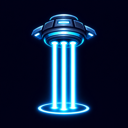
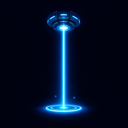
궁극기 연출과 레이저 범위 조정

Changed region(s): [[0.2188, 0.0625, 0.7812, 0.9062]]

diff --git a/src/main.ts b/src/main.ts
@@ -1286,50 +1286,50 @@ function draw(): void {
     const progress = Math.min(1, ultimateEffect.elapsed / ULTIMATE_EFFECT_DURATION);
     const alpha = 1 - progress;
     if (ultimateEffect.type === "antimatter") {
-      const radius = 24 + 145 * (1 - (1 - progress) ** 3);
+      const radius = 24 + 108 * (1 - (1 - progress) ** 3);
       effectGlow.circle(ultimateEffect.x, ultimateEffect.y, radius)
-        .stroke({ width: 34, color: 0xbd62ff, alpha: alpha * 0.9 });
-      scene.rect(0, 0, BOARD_WIDTH, BOARD_HEIGHT).fill({ color: 0x6d22aa, alpha: alpha * 0.12 });
-      scene.circle(ultimateEffect.x, ultimateEffect.y, radius).fill({ color: 0x7020a8, alpha: alpha * 0.28 });
-      scene.circle(ultimateEffect.x, ultimateEffect.y, radius).stroke({ width: 7, color: 0xf4dcff, alpha });
-      scene.circle(ultimateEffect.x, ultimateEffect.y, radius * 0.55).stroke({ width: 3, color: 0xffffff, alpha: alpha * 0.8 });
+        .stroke({ width: 22, color: 0xbd62ff, alpha: alpha * 0.58 });
+      scene.rect(0, 0, BOARD_WIDTH, BOARD_HEIGHT).fill({ color: 0x6d22aa, alpha: alpha * 0.06 });
+      scene.circle(ultimateEffect.x, ultimateEffect.y, radius).fill({ color: 0x7020a8, alpha: alpha * 0.16 });
+      scene.circle(ultimateEffect.x, ultimateEffect.y, radius).stroke({ width: 5, color: 0xf4dcff, alpha });
+      scene.circle(ultimateEffect.x, ultimateEffect.y, radius * 0.55).stroke({ width: 2, color: 0xffffff, alpha: alpha * 0.65 });
     } else if (ultimateEffect.type === "orbitalLaser") {
-      const width = CELL_WIDTH * 3 * Math.min(1, progress * 4);
+      const width = CELL_WIDTH * Math.min(1, progress * 4);
       effectGlow.rect(ultimateEffect.x - width / 2, 0, width, BOARD_HEIGHT)
-        .fill({ color: 0x38dfff, alpha: alpha * 0.72 });
+        .fill({ color: 0x38dfff, alpha: alpha * 0.48 });
       scene.rect(ultimateEffect.x - width / 2, 0, width, BOARD_HEIGHT)
-        .fill({ color: 0x12bfe8, alpha: alpha * 0.36 });
-      scene.rect(ultimateEffect.x - Math.max(5, width * 0.14), 0, Math.max(10, width * 0.28), BOARD_HEIGHT)
-        .fill({ color: 0xffffff, alpha: alpha * 0.9 });
+        .fill({ color: 0x12bfe8, alpha: alpha * 0.24 });
+      scene.rect(ultimateEffect.x - Math.max(3, width * 0.16), 0, Math.max(6, width * 0.32), BOARD_HEIGHT)
+        .fill({ color: 0xffffff, alpha: alpha * 0.72 });
     } else if (ultimateEffect.type === "chainLightning") {
       const visibleTargets = Math.max(1, Math.ceil(ultimateEffect.targets.length * Math.min(1, progress * 2.4)));
       let previous = { x: ultimateEffect.x, y: ultimateEffect.y };
       ultimateEffect.targets.slice(0, visibleTargets).forEach((target) => {
         effectGlow.moveTo(previous.x, previous.y).lineTo(target.x, target.y)
-          .stroke({ width: 16, color: 0xc76cff, alpha: alpha * 0.75 });
+          .stroke({ width: 10, color: 0xc76cff, alpha: alpha * 0.52 });
         scene.moveTo(previous.x, previous.y).lineTo(target.x, target.y)
           .stroke({ width: 4, color: 0xf4d8ff, alpha });
-        scene.circle(target.x, target.y, 7 + progress * 10)
+        scene.circle(target.x, target.y, 4 + progress * 7)
           .stroke({ width: 3, color: 0xffffff, alpha });
         previous = target;
       });
     } else if (ultimateEffect.type === "meteorImpact") {
-      const radius = 18 + 154 * (1 - (1 - progress) ** 3);
-      const tail = { x: ultimateEffect.x - 150 - progress * 30, y: ultimateEffect.y - 180 - progress * 22 };
+      const radius = 18 + 105 * (1 - (1 - progress) ** 3);
+      const tail = { x: ultimateEffect.x - 110 - progress * 20, y: ultimateEffect.y - 140 - progress * 18 };
       effectGlow.moveTo(tail.x, tail.y).lineTo(ultimateEffect.x, ultimateEffect.y)
-        .stroke({ width: 24, color: 0xff7133, alpha: alpha * 0.72 });
+        .stroke({ width: 14, color: 0xff7133, alpha: alpha * 0.5 });
       scene.moveTo(tail.x, tail.y).lineTo(ultimateEffect.x, ultimateEffect.y)
-        .stroke({ width: 10, color: 0xffbd55, alpha });
-      scene.circle(tail.x, tail.y, 13 + progress * 7).fill({ color: 0xffe9b0, alpha });
+        .stroke({ width: 6, color: 0xffbd55, alpha });
+      scene.circle(tail.x, tail.y, 9 + progress * 5).fill({ color: 0xffe9b0, alpha });
       effectGlow.circle(ultimateEffect.x, ultimateEffect.y, radius)
-        .stroke({ width: 30, color: 0xff7133, alpha: alpha * 0.8 });
-      scene.circle(ultimateEffect.x, ultimateEffect.y, radius).fill({ color: 0xf06a28, alpha: alpha * 0.25 });
-      scene.circle(ultimateEffect.x, ultimateEffect.y, radius).stroke({ width: 6, color: 0xffd978, alpha });
+        .stroke({ width: 18, color: 0xff7133, alpha: alpha * 0.52 });
+      scene.circle(ultimateEffect.x, ultimateEffect.y, radius).fill({ color: 0xf06a28, alpha: alpha * 0.16 });
+      scene.circle(ultimateEffect.x, ultimateEffect.y, radius).stroke({ width: 4, color: 0xffd978, alpha });
     } else if (ultimateEffect.type === "blackHoleCollapse") {
       const pull = Math.min(1, progress * 1.4);
-      const radius = 26 + 112 * progress;
+      const radius = 26 + 78 * progress;
       effectGlow.ellipse(ultimateEffect.x, ultimateEffect.y, 28 + progress * 8, 10 + progress * 3)
-        .stroke({ width: 18, color: 0xe55216, alpha: alpha * 0.7 });
+        .stroke({ width: 12, color: 0xe55216, alpha: alpha * 0.5 });
       scene.circle(ultimateEffect.x, ultimateEffect.y, 18 + progress * 7).fill({ color: 0x010101, alpha: alpha * 0.9 });
       scene.ellipse(ultimateEffect.x, ultimateEffect.y, 28 + progress * 8, 10 + progress * 3)
         .stroke({ width: 3, color: 0xff6a19, alpha });
@@ -1340,40 +1340,40 @@ function draw(): void {
         const x = target.x + (centerX - target.x) * pull + wobble;
         const y = target.y + (centerY - target.y) * pull - wobble;
         scene.moveTo(target.x, target.y).lineTo(x, y).stroke({ width: 2, color: 0xf99a48, alpha: alpha * 0.35 });
-        scene.circle(x, y, 4 + (1 - pull) * 4).fill({ color: 0xffa247, alpha: alpha * 0.75 });
+        scene.circle(x, y, 3 + (1 - pull) * 3).fill({ color: 0xffa247, alpha: alpha * 0.55 });
       });
       scene.circle(ultimateEffect.x, ultimateEffect.y, radius).stroke({ width: 5, color: 0xffb15b, alpha: alpha * 0.65 });
     } else if (ultimateEffect.type === "crossfire") {
-      const reach = 40 + 220 * Math.min(1, progress * 1.8);
-      const width = 8 + progress * 14;
+      const reach = 30 + 170 * Math.min(1, progress * 1.8);
+      const width = 5 + progress * 8;
       for (let offset = -1; offset <= 1; offset += 1) {
         const y = ultimateEffect.y + offset * CELL_HEIGHT;
         const x = ultimateEffect.x + offset * (CELL_WIDTH + GRID_GAP);
         effectGlow.moveTo(ultimateEffect.x - reach, y).lineTo(ultimateEffect.x + reach, y)
-          .stroke({ width: width * 2.4, color: 0x26dfff, alpha: alpha * 0.6 });
+          .stroke({ width: width * 1.6, color: 0x26dfff, alpha: alpha * 0.45 });
         effectGlow.moveTo(x, Math.max(0, ultimateEffect.y - reach)).lineTo(x, Math.min(BOARD_HEIGHT, ultimateEffect.y + reach))
-          .stroke({ width: width * 2.4, color: 0x26dfff, alpha: alpha * 0.6 });
+          .stroke({ width: width * 1.6, color: 0x26dfff, alpha: alpha * 0.45 });
         scene.moveTo(ultimateEffect.x - reach, y).lineTo(ultimateEffect.x + reach, y)
           .stroke({ width, color: 0x9af7ff, alpha });
         scene.moveTo(x, Math.max(0, ultimateEffect.y - reach)).lineTo(x, Math.min(BOARD_HEIGHT, ultimateEffect.y + reach))
           .stroke({ width, color: 0xffffff, alpha });
       }
-      scene.circle(ultimateEffect.x, ultimateEffect.y, 18 + progress * 22).fill({ color: 0x48dfff, alpha: alpha * 0.45 });
+      scene.circle(ultimateEffect.x, ultimateEffect.y, 14 + progress * 18).fill({ color: 0x48dfff, alpha: alpha * 0.28 });
     } else if (ultimateEffect.type === "fusionChain") {
       const visibleTargets = Math.max(1, Math.ceil(ultimateEffect.targets.length * Math.min(1, progress * 1.7)));
       let previous = { x: ultimateEffect.x, y: ultimateEffect.y };
       ultimateEffect.targets.slice(0, visibleTargets).forEach((target, index) => {
         effectGlow.moveTo(previous.x, previous.y).lineTo(target.x, target.y)
-          .stroke({ width: 18, color: 0xff7c35, alpha: alpha * 0.68 });
+          .stroke({ width: 10, color: 0xff7c35, alpha: alpha * 0.48 });
         scene.moveTo(previous.x, previous.y).lineTo(target.x, target.y)
           .stroke({ width: 4, color: index % 2 === 0 ? 0xfff3a6 : 0xff8e49, alpha });
-        scene.circle(target.x, target.y, 8 + progress * 11)
-          .fill({ color: 0xffbd55, alpha: alpha * 0.35 })
-          .stroke({ width: 3, color: 0xffffdc, alpha });
+        scene.circle(target.x, target.y, 5 + progress * 7)
+          .fill({ color: 0xffbd55, alpha: alpha * 0.24 })
+          .stroke({ width: 2, color: 0xffffdc, alpha });
         previous = target;
       });
-      scene.circle(ultimateEffect.x, ultimateEffect.y, 22 + progress * 86)
-        .stroke({ width: 7, color: 0xff9d42, alpha: alpha * 0.8 });
+      scene.circle(ultimateEffect.x, ultimateEffect.y, 22 + progress * 55)
+        .stroke({ width: 5, color: 0xff9d42, alpha: alpha * 0.55 });
     } else {
       const count = ultimateEffect.targets.length;
       const visibleTargets = Math.max(1, Math.ceil(count * Math.min(1, progress * 2.2)));
@@ -1381,13 +1381,13 @@ function draw(): void {
       const centerY = ultimateEffect.y;
       ultimateEffect.targets.slice(0, visibleTargets).forEach((target, index) => {
         const angle = (index / Math.max(1, count)) * Math.PI * 2 + progress * 1.5;
-        const origin = { x: centerX + Math.cos(angle) * 270, y: centerY + Math.sin(angle) * 270 };
+        const origin = { x: centerX + Math.cos(angle) * 235, y: centerY + Math.sin(angle) * 235 };
         const dx = target.x - origin.x;
         const dy = target.y - origin.y;
         const length = Math.hypot(dx, dy) || 1;
         const tip = { x: target.x - (dx / length) * 12, y: target.y - (dy / length) * 12 };
         effectGlow.moveTo(origin.x, origin.y).lineTo(target.x, target.y)
-          .stroke({ width: 12, color: 0xff456f, alpha: alpha * 0.65 });
+          .stroke({ width: 8, color: 0xff456f, alpha: alpha * 0.45 });
         scene.moveTo(origin.x, origin.y).lineTo(tip.x, tip.y)
           .stroke({ width: 3, color: 0xffc5d5, alpha });
         scene.moveTo(tip.x, tip.y).lineTo(target.x, target.y).lineTo(tip.x - (dx / length) * 8, tip.y - (dy / length) * 8)

diff --git a/index.html b/index.html
@@ -94,7 +94,7 @@
             <h3>보관형 궁극기</h3>
             <ul class="item-help-list">
               <li><img class="legend-ultimate-image" data-ultimate-image="antimatter" alt="" /><span><strong>반물질 폭탄</strong>지정 위치 주변을 대규모로 소멸시킵니다.</span></li>
-              <li><img class="legend-ultimate-image" data-ultimate-image="orbitalLaser" alt="" /><span><strong>궤도 레이저</strong>지정한 세로 영역을 관통합니다.</span></li>
+              <li><img class="legend-ultimate-image" data-ultimate-image="orbitalLaser" alt="" /><span><strong>궤도 레이저</strong>지정한 세로 한 줄을 관통합니다.</span></li>
               <li><img class="legend-ultimate-image" data-ultimate-image="chainLightning" alt="" /><span><strong>연쇄 번개</strong>가까운 블록으로 파괴를 이어갑니다.</span></li>
               <li><img class="legend-ultimate-image" data-ultimate-image="meteorImpact" alt="" /><span><strong>운석 충돌</strong>중심부를 소멸시키고 외곽에 피해를 줍니다.</span></li>
               <li><img class="legend-ultimate-image" data-ultimate-image="blackHoleCollapse" alt="" /><span><strong>블랙홀 붕괴</strong>주변 블록을 빨아들인 뒤 폭발시킵니다.</span></li>

diff --git a/src/game.ts b/src/game.ts
@@ -543,7 +543,7 @@ export function useUltimateItem(
   const targets = type === "antimatter"
     ? destructible.filter((brick) => Math.max(Math.abs(brick.row - target.row), Math.abs(brick.column - target.column)) <= 2)
     : type === "orbitalLaser"
-      ? destructible.filter((brick) => Math.abs(brick.column - target.column) <= 1)
+      ? destructible.filter((brick) => brick.column === target.column)
       : type === "chainLightning"
         ? [...destructible].sort((a, b) => distance(a) - distance(b)).slice(0, 12)
         : type === "meteorImpact"

diff --git a/src/style.css b/src/style.css
@@ -1536,6 +1536,7 @@ button {
   outline: 1px solid rgba(255, 255, 255, 0.1);
   outline-offset: -1px;
   box-shadow: 0 4px 12px rgba(0, 0, 0, 0.3);
+  filter: saturate(0.82) brightness(0.84);
 }
 
 .ultimate-slot-image[hidden],
@@ -1622,6 +1623,7 @@ button {
   outline: 1px solid rgba(255, 255, 255, 0.1);
   outline-offset: -1px;
   box-shadow: 0 4px 12px rgba(0, 0, 0, 0.3);
+  filter: saturate(0.82) brightness(0.84);
 }
 
 #status-dot {

diff --git a/tests/game.test.ts b/tests/game.test.ts
@@ -610,7 +610,7 @@ describe("핵심 게임 규칙", () => {
   it("궁극기 8종은 선택 범위에 맞는 효과를 적용하고 사용한 슬롯을 비운다", () => {
     const cases = [
       { type: "antimatter" as const, target: { row: 0, column: 0 }, expected: 9 },
-      { type: "orbitalLaser" as const, target: { row: 2, column: 2 }, expected: 15 },
+      { type: "orbitalLaser" as const, target: { row: 2, column: 2 }, expected: 5 },
       { type: "chainLightning" as const, target: { row: 2, column: 2 }, expected: 12 },
       { type: "meteorImpact" as const, target: { row: 2, column: 2 }, expected: 25 },
       { type: "blackHoleCollapse" as const, target: { row: 2, column: 2 }, expected: 25 },

diff --git a/ITEM_CHECKLIST.md b/ITEM_CHECKLIST.md
@@ -27,7 +27,7 @@
 보상은 선택지가 아닌 활약 별 기반 가중치 랜덤으로 1개만 지급한다. 별 1개는 지급하지 않고, 별 2/3/4/5개는 각각 20%/50%/80%/100% 확률로 지급한다. `연쇄 번개`와 `운석 충돌`은 낮은 별에서도 잘 나오는 입문형, `블랙홀 붕괴`와 `십자포화`는 중간형, `반물질 폭탄`·`궤도 레이저`는 상위형, `핵융합 연쇄`·`미사일 포화`는 높은 별에서 주로 나오는 희귀형으로 조정한다.
 
 - [x] 반물질 폭탄 (`antimatter`) — 선택 지점을 중심으로 5×5 범위의 파괴 가능한 블록을 체력과 무관하게 제거한다. 보라색 충격파와 화면 섬광, 폭탄 효과음으로 연출하며 `public/images/ultimates/antimatter.png` 아이콘을 사용한다.
-- [x] 궤도 레이저 (`orbitalLaser`) — 선택 열을 중심으로 세로 3열의 파괴 가능한 블록을 체력과 무관하게 제거한다. 전체 높이 광선과 레이저 효과음으로 연출하며 `public/images/ultimates/orbital-laser.png` 아이콘을 사용한다.
+- [x] 궤도 레이저 (`orbitalLaser`) — 선택한 1열의 파괴 가능한 블록을 체력과 무관하게 제거한다. 한 열 폭의 전체 높이 광선과 레이저 효과음으로 연출하며 `public/images/ultimates/orbital-laser.png` 아이콘을 사용한다.
 - [x] 연쇄 번개 (`chainLightning`) — 선택 지점에서 가까운 파괴 가능한 블록 최대 12개를 체력과 무관하게 제거한다. 목표 사이를 잇는 전기선과 폭탄 효과음으로 연출하며 `public/images/ultimates/chain-lightning.png` 아이콘을 사용한다.
 - [x] 운석 충돌 (`meteorImpact`) — 선택 지점 중심부의 블록을 즉시 제거하고 외곽 블록에 피해를 준다. 빛나는 원과 꼬리, 충돌 충격파, 폭탄 효과음으로 연출하며 `public/images/ultimates/meteor-impact.png` 아이콘을 사용한다.
 - [x] 블랙홀 붕괴 (`blackHoleCollapse`) — 선택 범위의 블록을 한 점으로 끌어당긴 뒤 폭발시켜 제거한다. 기존 블랙홀의 원·타원 효과와 폭탄 효과음을 재사용하며 `public/images/ultimates/black-hole-collapse.png` 아이콘을 사용한다.